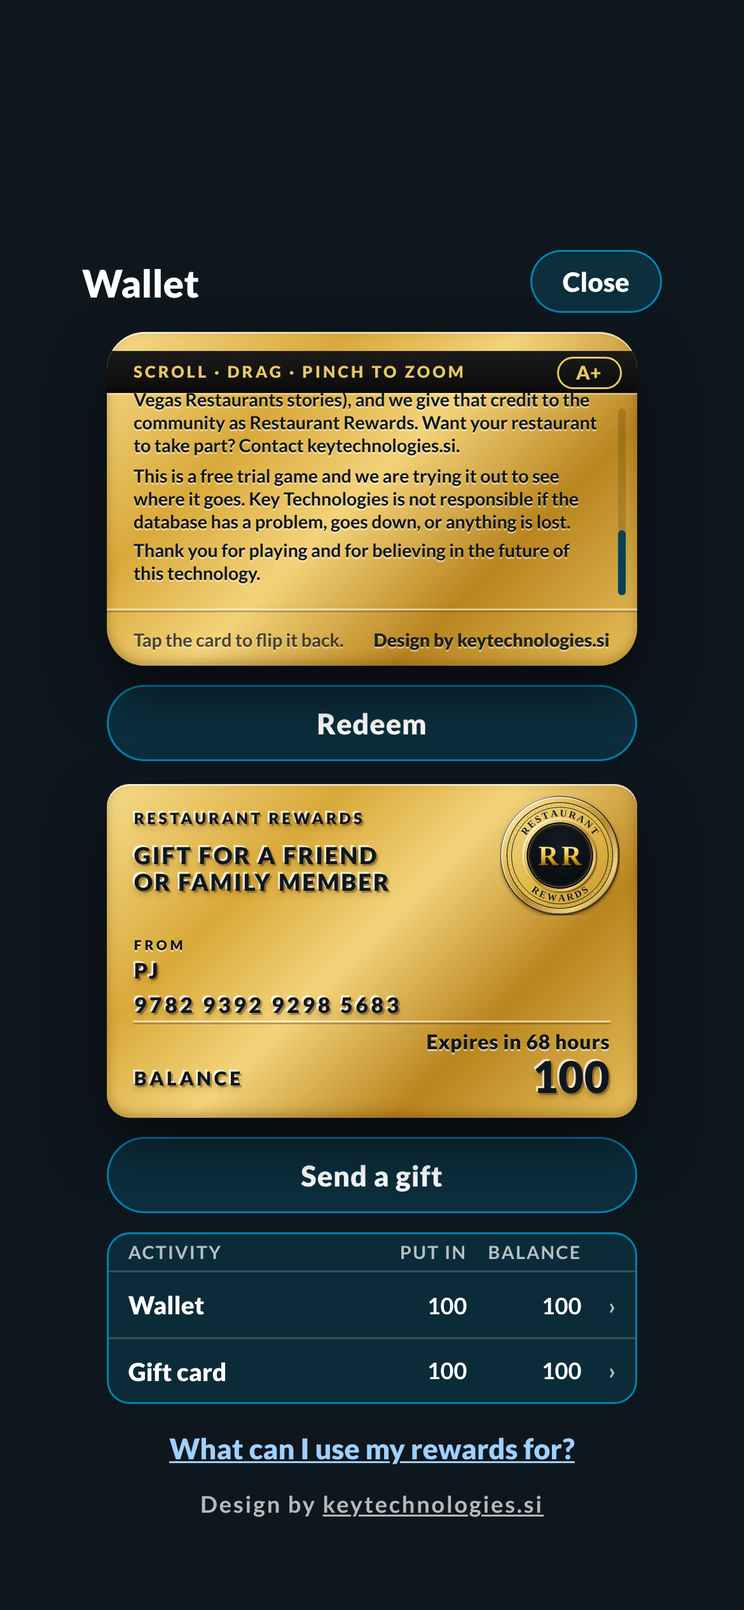
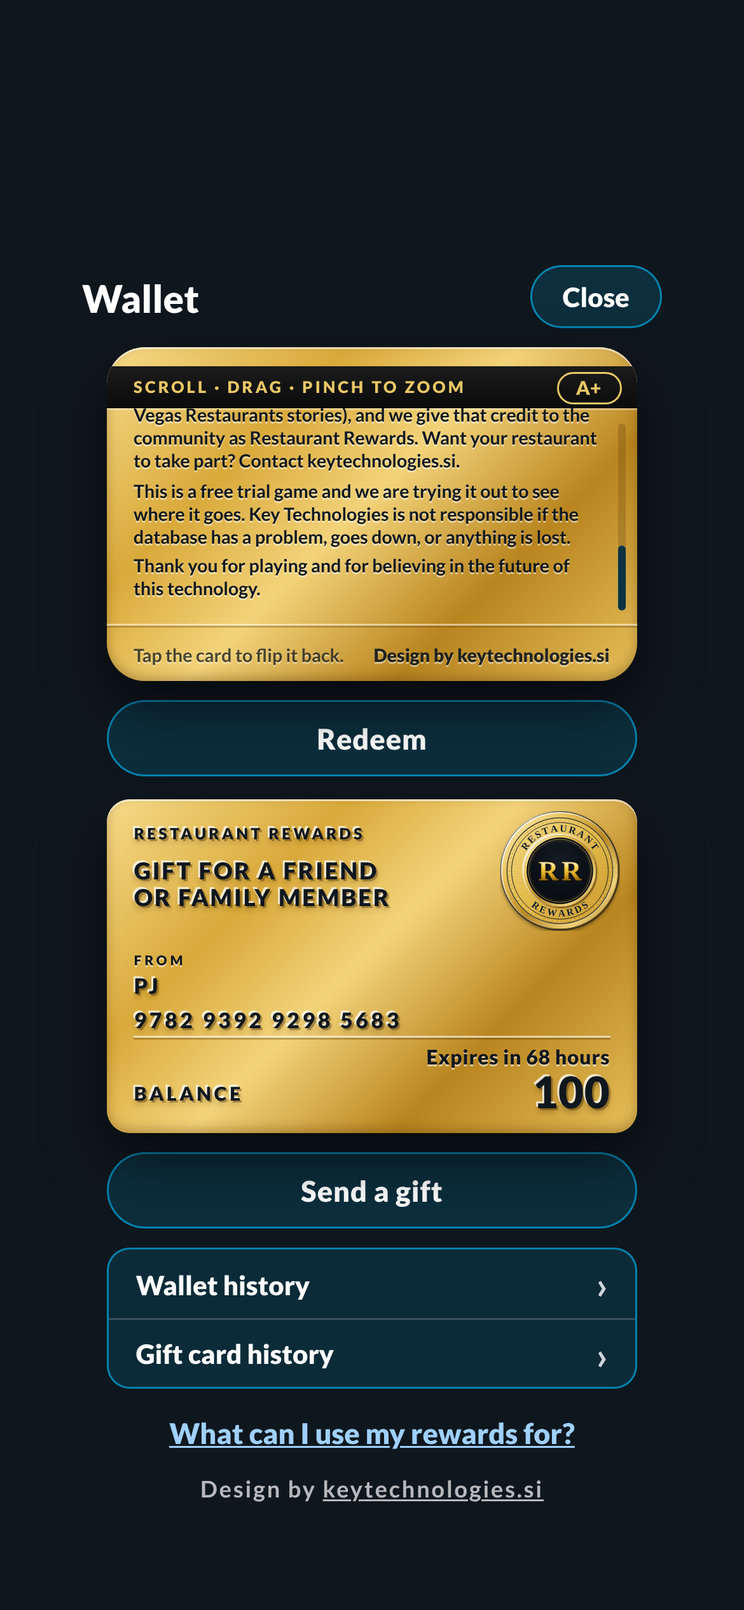
Cash App style history: big balance, wallet/gift card switch, plain-sentence feed with times to the second
Claude-Session: https://claude.ai/code/session_01C24s48QBeAMLS2iDpVHsTf

Changed region(s): [[0.0923, 0.156, 0.8923, 0.9672], [0.8308, 0.312, 0.8615, 0.3432]]

diff --git a/sites/key-technologies/restaurant-rewards-treasury.html b/sites/key-technologies/restaurant-rewards-treasury.html
@@ -49,7 +49,28 @@ table.who .hist{margin-top:5px;background:none;color:var(--key);border:1px solid
 .gc .brand{font-weight:900;font-size:12px;letter-spacing:.2em;text-transform:uppercase;color:#0f171e;text-shadow:-1px -1px 0 rgba(255,255,255,.75),1px 1px 0 rgba(60,35,0,.35),0 2px 3px rgba(60,35,0,.25)}
 .gc .nm.long{white-space:nowrap;overflow:hidden;text-overflow:ellipsis;font-size:min(17px,4.6vw);padding-right:0}
 .gc .nm{margin-top:6px;font-weight:900;font-size:21px;line-height:1.15;color:#0f171e;text-shadow:-1px -1px 0 rgba(255,255,255,.75),1px 1px 0 rgba(60,35,0,.35),0 2px 3px rgba(60,35,0,.25);padding-right:70px}
-.gc .exp{flex:1 1 auto;min-width:0;margin:0 90px 0 10px;font-size:10px;font-weight:900;line-height:1.2;letter-spacing:.02em;color:#0f171e;text-shadow:0 1px 0 rgba(255,255,255,.55)}.gc .exp.soon{color:#7a1d10}.gc .exp.cd{font-size:10.5px;font-weight:900;letter-spacing:.08em;text-transform:uppercase;font-variant-numeric:tabular-nums}.gc .numrow{margin-top:auto;display:flex;align-items:flex-end;justify-content:space-between;gap:8px}.gc .numrow .num{margin-top:0}.gc .vt{display:flex;align-items:center;gap:4px;flex:none;color:#0f171e;text-shadow:-1px -1px 0 rgba(255,255,255,.75),1px 1px 0 rgba(60,35,0,.35),0 2px 3px rgba(60,35,0,.2)}.gc .vt .vl{font-size:5.5px;line-height:1.15;font-weight:900;letter-spacing:.08em;text-align:left}.gc .vt .vd{font-size:14px;font-weight:700;letter-spacing:.1em;font-variant-numeric:tabular-nums}.gc .vt.soon .vd{color:#7a1d10}.gc .chipx{display:flex;align-items:center;gap:7px}.gc .chipx .c{width:40px;height:29px;display:block;filter:drop-shadow(0 1px 1.2px rgba(60,35,0,.5))}.gc .chipx .w{width:15px;height:20px;display:block}.gc .chip.gchip{display:flex;align-items:center;justify-content:center;font-size:8px;font-weight:900;letter-spacing:.14em;color:#0f171e;text-shadow:0 1px 0 rgba(255,255,255,.55);padding-left:1px}.gc .chip.gchip::before,.gc .chip.gchip::after{display:none}.gc .glab{margin-top:auto;font-size:7px;font-weight:900;letter-spacing:.24em;text-transform:uppercase;color:#0f171e;text-shadow:0 1px 0 rgba(255,255,255,.55)}#pres .gc.gift .glab+.nm{margin-top:1px}#pres .gc.sm .nm+.num{margin-top:3px}#pres .gc.sm .nm,#pres .gc.sm .num{font-size:4.5cqw;font-weight:800;letter-spacing:.14em;line-height:1.25;padding-top:0}.gc .gtitle{margin-top:6px;font-weight:900;font-size:4.9cqw;line-height:1.15;letter-spacing:.08em;white-space:nowrap;color:#0f171e;text-shadow:-1px -1px 0 rgba(255,255,255,.75),1px 1px 0 rgba(60,35,0,.35),0 2px 3px rgba(60,35,0,.25)}#rdm ul.alist{list-style:none;margin:10px 0 0;padding:0;background:#16222f;border:1px solid rgba(255,255,255,.22);border-radius:14px}#rdm ul.alist li{display:flex;justify-content:space-between;gap:12px;padding:11px 14px;border-bottom:1px solid rgba(255,255,255,.14)}#rdm ul.alist li:last-child{border-bottom:0}#rdm ul.alist li span{display:flex;flex-direction:column}#rdm ul.alist li b{font-size:15px}#rdm ul.alist li small{font-size:11.5px;color:rgba(255,255,255,.72);line-height:1.35}#rdm ul.alist li span.a{text-align:right;font-weight:900;font-size:16px;white-space:nowrap}#rdm ul.alist li span.a.in{color:#00a8e1}#pres .acts{margin:10px auto 0;width:min(100%,var(--cw));border:1.5px solid rgba(0,168,225,.7);border-radius:12px;background:rgba(0,168,225,.14);overflow:hidden}#pres .ahd,#pres .actb{display:grid;grid-template-columns:minmax(0,1fr) 46px 56px 14px;align-items:center;gap:4px;padding:0 10px}#pres .ahd{min-height:20px;font:700 9.5px Lato,system-ui,sans-serif;letter-spacing:.08em;text-transform:uppercase;color:rgba(255,255,255,.7);border-bottom:1px solid rgba(255,255,255,.18)}#pres .n{text-align:right;font-variant-numeric:tabular-nums}#pres .actb+.actb{border-top:1px solid rgba(255,255,255,.18)}#pres .actb{width:100%;min-height:34px;border:0;background:none;color:#fff;font:700 12px Lato,system-ui,sans-serif;cursor:pointer;text-align:left}#pres .actb:active{background:rgba(0,168,225,.25)}#pres .actb b{font-weight:900;font-size:13px;white-space:nowrap}#pres .actb span{color:#fff;font-weight:700;white-space:nowrap}#pres .actb .ch{color:rgba(255,255,255,.7);text-align:right}#rdm .asec{margin:16px 0 0}#rdm .asec h3{margin:0 0 6px;font-size:17px}#rdm .ltab{border:1px solid rgba(255,255,255,.22);border-radius:12px;background:#16222f;overflow:hidden;font-variant-numeric:tabular-nums}#rdm .lrow{display:grid;grid-template-columns:88px 1fr 54px 58px;gap:6px;padding:9px 10px;border-top:1px solid rgba(255,255,255,.14);align-items:start;font-size:12px}#rdm .lrow:first-child{border-top:0}#rdm .lhd{background:rgba(255,255,255,.07);font-size:9.5px;font-weight:900;letter-spacing:.07em;text-transform:uppercase;color:rgba(255,255,255,.75);padding:7px 10px;align-items:center}#rdm .lrow b{display:block;font-weight:800;font-size:12px}#rdm .lrow small{display:block;font-size:10.5px;color:rgba(255,255,255,.72);line-height:1.3;margin-top:1px;word-break:break-word}#rdm .lrow .n{text-align:right;font-weight:800}#rdm .lrow .amt.in{color:#00a8e1}#rdm .lrow .bal{color:rgba(255,255,255,.9)}#rdm .lrow.tap{cursor:pointer}#rdm .lrow.tap:active{background:rgba(0,168,225,.15)}#rdm .sumbox{display:grid;grid-template-columns:repeat(auto-fit,minmax(88px,1fr));gap:8px;margin:0 0 8px}#rdm .sumbox .sc{background:#16222f;border:1px solid rgba(255,255,255,.22);border-radius:12px;padding:8px 10px}#rdm .sumbox small{display:block;font-size:11px;color:rgba(255,255,255,.75);line-height:1.2}#rdm .sumbox b{font-size:19px;color:#f3d884}.gc .tabsl{white-space:nowrap;text-decoration:underline;text-underline-offset:2px;cursor:pointer}#rdm .tabrow{display:flex;justify-content:space-between;align-items:center;gap:10px;margin:8px 0 0;padding:12px 14px;background:#16222f;border:1px solid rgba(255,255,255,.22);border-radius:14px}#rdm .tabrow.first{border-color:rgba(0,168,225,.7)}#rdm .tabrow b{font-size:22px;color:#f3d884;white-space:nowrap;flex:none}#rdm .tabrow span{font-size:13px;line-height:1.35;color:rgba(255,255,255,.85);text-align:right;min-width:0}.gc .rt{display:flex;flex-direction:column;align-items:flex-end}.gc .rt .cdr{font-size:10.5px;font-weight:900;letter-spacing:.03em;text-transform:none;text-align:right;line-height:1.2;margin:0 0 1px;color:#0f171e;text-shadow:0 1px 0 rgba(255,255,255,.55)}.gc .rt .cdr.soon{color:#7a1d10}.xline{margin:6px 0 10px;font-weight:800;font-size:14px;color:#f3d884}.xline.soon{color:#ff9d8a}.gsum .xline{display:block;margin:6px 0 0;font-size:13px}.gc .crow{display:flex;align-items:center;justify-content:space-between;margin-top:6px;margin-bottom:8px}.gc .crow .chip{margin:0}
+.gc .exp{flex:1 1 auto;min-width:0;margin:0 90px 0 10px;font-size:10px;font-weight:900;line-height:1.2;letter-spacing:.02em;color:#0f171e;text-shadow:0 1px 0 rgba(255,255,255,.55)}.gc .exp.soon{color:#7a1d10}.gc .exp.cd{font-size:10.5px;font-weight:900;letter-spacing:.08em;text-transform:uppercase;font-variant-numeric:tabular-nums}.gc .numrow{margin-top:auto;display:flex;align-items:flex-end;justify-content:space-between;gap:8px}.gc .numrow .num{margin-top:0}.gc .vt{display:flex;align-items:center;gap:4px;flex:none;color:#0f171e;text-shadow:-1px -1px 0 rgba(255,255,255,.75),1px 1px 0 rgba(60,35,0,.35),0 2px 3px rgba(60,35,0,.2)}.gc .vt .vl{font-size:5.5px;line-height:1.15;font-weight:900;letter-spacing:.08em;text-align:left}.gc .vt .vd{font-size:14px;font-weight:700;letter-spacing:.1em;font-variant-numeric:tabular-nums}.gc .vt.soon .vd{color:#7a1d10}.gc .chipx{display:flex;align-items:center;gap:7px}.gc .chipx .c{width:40px;height:29px;display:block;filter:drop-shadow(0 1px 1.2px rgba(60,35,0,.5))}.gc .chipx .w{width:15px;height:20px;display:block}.gc .chip.gchip{display:flex;align-items:center;justify-content:center;font-size:8px;font-weight:900;letter-spacing:.14em;color:#0f171e;text-shadow:0 1px 0 rgba(255,255,255,.55);padding-left:1px}.gc .chip.gchip::before,.gc .chip.gchip::after{display:none}.gc .glab{margin-top:auto;font-size:7px;font-weight:900;letter-spacing:.24em;text-transform:uppercase;color:#0f171e;text-shadow:0 1px 0 rgba(255,255,255,.55)}#pres .gc.gift .glab+.nm{margin-top:1px}#pres .gc.sm .nm+.num{margin-top:3px}#pres .gc.sm .nm,#pres .gc.sm .num{font-size:4.5cqw;font-weight:800;letter-spacing:.14em;line-height:1.25;padding-top:0}.gc .gtitle{margin-top:6px;font-weight:900;font-size:4.9cqw;line-height:1.15;letter-spacing:.08em;white-space:nowrap;color:#0f171e;text-shadow:-1px -1px 0 rgba(255,255,255,.75),1px 1px 0 rgba(60,35,0,.35),0 2px 3px rgba(60,35,0,.25)}#rdm ul.alist{list-style:none;margin:10px 0 0;padding:0;background:#16222f;border:1px solid rgba(255,255,255,.22);border-radius:14px}#rdm ul.alist li{display:flex;justify-content:space-between;gap:12px;padding:11px 14px;border-bottom:1px solid rgba(255,255,255,.14)}#rdm ul.alist li:last-child{border-bottom:0}#rdm ul.alist li span{display:flex;flex-direction:column}#rdm ul.alist li b{font-size:15px}#rdm ul.alist li small{font-size:11.5px;color:rgba(255,255,255,.72);line-height:1.35}#rdm ul.alist li span.a{text-align:right;font-weight:900;font-size:16px;white-space:nowrap}#rdm ul.alist li span.a.in{color:#00a8e1}#pres .acts{margin:10px auto 0;width:min(100%,var(--cw));border:1.5px solid rgba(0,168,225,.7);border-radius:12px;background:rgba(0,168,225,.14);overflow:hidden}#pres .actb+.actb{border-top:1px solid rgba(255,255,255,.18)}#pres .actb{display:flex;justify-content:space-between;align-items:center;padding:0 14px;width:100%;min-height:36px;border:0;background:none;color:#fff;font:700 12px Lato,system-ui,sans-serif;cursor:pointer;text-align:left}#pres .actb:active{background:rgba(0,168,225,.25)}#pres .actb b{font-weight:900;font-size:14px;white-space:nowrap}#pres .actb .ch{color:rgba(255,255,255,.8);font-size:20px;line-height:1}#rdm .seg{display:grid;grid-template-columns:1fr 1fr;gap:4px;padding:4px;margin:6px 0 4px;background:#16222f;border:1px solid rgba(255,255,255,.22);border-radius:16px}
+#rdm .seg button{min-height:48px;border:0;border-radius:12px;background:none;color:rgba(255,255,255,.8);font:800 18px Lato,system-ui,sans-serif;cursor:pointer}
+#rdm .seg button.on{background:#00a8e1;color:#fff}
+#rdm .abig{text-align:center;padding:18px 0 8px}
+#rdm .abig small{display:block;font-size:16px;color:rgba(255,255,255,.8);font-weight:700}
+#rdm .abig b{display:block;font-size:56px;line-height:1.1;color:#f3d884;font-weight:900}
+#rdm .abig span{display:block;font-size:16px;color:rgba(255,255,255,.8);margin-top:2px}
+#rdm .fh{margin:14px 0 4px;font-size:20px}
+#rdm .feed{display:block}
+#rdm .frow{display:flex;align-items:center;gap:14px;padding:14px 2px;border-top:1px solid rgba(255,255,255,.14)}
+#rdm .frow:first-child{border-top:0}
+#rdm .ic{flex:none;width:46px;height:46px;border-radius:50%;display:flex;align-items:center;justify-content:center;background:rgba(255,255,255,.12);color:#fff}
+#rdm .ic svg{width:24px;height:24px}
+#rdm .ic-in{background:rgba(0,168,225,.25);color:#00a8e1}
+#rdm .ic-gift{background:rgba(243,216,132,.2);color:#f3d884}
+#rdm .fm{flex:1;min-width:0}
+#rdm .fm b{display:block;font-size:18px;font-weight:800;line-height:1.2}
+#rdm .fm small{display:block;font-size:14px;color:rgba(255,255,255,.78);line-height:1.35;margin-top:2px}
+#rdm .fm .fno{font-size:12.5px;color:rgba(255,255,255,.6)}
+#rdm .fa{flex:none;font-size:20px;font-weight:900;font-variant-numeric:tabular-nums}
+#rdm .fa.in{color:#00a8e1}
+#rdm .frow.tap{cursor:pointer}#rdm .frow.tap:active{background:rgba(0,168,225,.15)}.gc .tabsl{white-space:nowrap;text-decoration:underline;text-underline-offset:2px;cursor:pointer}#rdm .tabrow{display:flex;justify-content:space-between;align-items:center;gap:10px;margin:8px 0 0;padding:12px 14px;background:#16222f;border:1px solid rgba(255,255,255,.22);border-radius:14px}#rdm .tabrow.first{border-color:rgba(0,168,225,.7)}#rdm .tabrow b{font-size:22px;color:#f3d884;white-space:nowrap;flex:none}#rdm .tabrow span{font-size:13px;line-height:1.35;color:rgba(255,255,255,.85);text-align:right;min-width:0}.gc .rt{display:flex;flex-direction:column;align-items:flex-end}.gc .rt .cdr{font-size:10.5px;font-weight:900;letter-spacing:.03em;text-transform:none;text-align:right;line-height:1.2;margin:0 0 1px;color:#0f171e;text-shadow:0 1px 0 rgba(255,255,255,.55)}.gc .rt .cdr.soon{color:#7a1d10}.xline{margin:6px 0 10px;font-weight:800;font-size:14px;color:#f3d884}.xline.soon{color:#ff9d8a}.gsum .xline{display:block;margin:6px 0 0;font-size:13px}.gc .crow{display:flex;align-items:center;justify-content:space-between;margin-top:6px;margin-bottom:8px}.gc .crow .chip{margin:0}
 .gc .rrlock{display:flex;align-items:center}.gc .rrlock img{display:block;height:72px;width:auto}.gc.sm .rrlock img{height:46px}
 .gc .rrlock{display:flex;align-items:center;gap:8px}.gc .rrt{font-weight:900;font-size:9.5px;letter-spacing:.14em;line-height:1.25;text-transform:uppercase;text-align:right;color:#0f171e;text-shadow:0 1px 0 rgba(255,255,255,.6)}.gc .rrbadge{position:relative;width:46px;height:46px;border-radius:50%;overflow:hidden;flex:none;box-shadow:0 2px 5px rgba(60,35,0,.35)}.gc .rrbadge img{display:block;width:100%;height:100%}.gc.sm .rrbadge{width:32px;height:32px}.gc.sm .rrt{font-size:7.5px}
 .gc .rrmark{width:40px;height:40px;border-radius:50%;display:flex;align-items:center;justify-content:center;font-weight:900;font-size:15px;letter-spacing:-.04em;color:#0f171e;border:2px solid #0f171e;box-shadow:inset 0 0 0 3px rgba(255,255,255,.28),inset 0 0 0 4px rgba(15,23,30,.55),0 1px 0 rgba(255,255,255,.7);background:radial-gradient(circle at 35% 30%,rgba(255,255,255,.55),rgba(255,255,255,0) 60%);text-shadow:0 1px 0 rgba(255,255,255,.6);padding-right:1px}.gc.sm .rrmark{width:28px;height:28px;font-size:11px;border-width:1.5px;box-shadow:inset 0 0 0 2px rgba(255,255,255,.28),inset 0 0 0 3px rgba(15,23,30,.5)}
@@ -105,7 +126,7 @@ table.who .hist{margin-top:5px;background:none;color:var(--key);border:1px solid
 #pres .plogos{display:flex;gap:12px;align-items:center;justify-content:center;flex-wrap:wrap;margin:18px 0 6px}#pres .plogos img{height:64px;width:auto;max-width:150px;object-fit:contain}
 #pres h2{text-align:center;font-size:22px;margin:6px 0 2px}
 #pres .gc{max-width:none;width:100%;margin:10px 0 4px;aspect-ratio:1.58/1}
-#pres{--cw:clamp(244px,calc((100vh - 494px)/2*1.586),304px);--cw:clamp(244px,calc((100dvh - 494px)/2*1.586),304px)}@media(max-height:700px){#pres .pc>.rbtn,#pres .pc>.giftpill,#pres .btnrow .rbtn{min-height:34px;font-size:14px;margin-top:6px}#pres .btnrow{margin-top:6px}#pres .flip{margin:6px 0 2px}#pres .gblock .gc{margin:0}#pres .kt{margin:6px 0 2px}#pres .uses{margin-top:6px}#pres .pc>h3,#pres .pc>ul{display:none}}@media(max-height:780px){#pres .pc>ul,#pres .pc>h3{display:none}}@media(max-height:700px){#pres .pc>a.uses{display:none!important}#pres .acts{margin-top:6px}#pres .actb{min-height:26px;font-size:11px}#pres .ahd{min-height:15px;font-size:9px}#pres .actb b{font-size:12px}}@media(max-height:600px){#pres .ahd,#pres .actb{grid-template-columns:minmax(0,1fr) 40px 46px 10px;padding:0 8px;gap:3px}#pres .actb{min-height:24px}#pres .ahd{min-height:14px}#pres{--cw:196px}#pres .phead{margin:0}#pres .pc{padding-top:2px}#pres .flip{margin:2px 0 0}#pres .kt{margin:0;font-size:10px;line-height:1.1}#pres .gblock .gc{margin:0}#pres .acts{margin-top:3px}#pres .pc>a.uses{display:none!important}#pres button.more{margin-top:6px;min-height:0;padding:4px}#pres{--cw:196px}#pres .pc>.rbtn,#pres .pc>.giftpill,#pres .btnrow .rbtn{min-height:28px;font-size:13px}}@media(max-height:620px){#pres .uses{display:none}#pres .phead{margin-bottom:2px}#pres .pc{padding-top:8px}#pres .kt{margin:4px 0 0}}
+#pres{--cw:clamp(244px,calc((100vh - 494px)/2*1.586),304px);--cw:clamp(244px,calc((100dvh - 494px)/2*1.586),304px)}@media(max-height:700px){#pres .pc>.rbtn,#pres .pc>.giftpill,#pres .btnrow .rbtn{min-height:34px;font-size:14px;margin-top:6px}#pres .btnrow{margin-top:6px}#pres .flip{margin:6px 0 2px}#pres .gblock .gc{margin:0}#pres .kt{margin:6px 0 2px}#pres .uses{margin-top:6px}#pres .pc>h3,#pres .pc>ul{display:none}}@media(max-height:780px){#pres .pc>ul,#pres .pc>h3{display:none}}@media(max-height:700px){#pres .pc>a.uses{display:none!important}#pres .acts{margin-top:6px}#pres .actb{min-height:32px}#pres .actb b{font-size:13px}#pres .actb b{font-size:12px}}@media(max-height:600px){#pres .actb{min-height:28px;padding:0 10px}#pres .ahd{min-height:14px}#pres{--cw:196px}#pres .phead{margin:0}#pres .pc{padding-top:2px}#pres .flip{margin:2px 0 0}#pres .kt{margin:0;font-size:10px;line-height:1.1}#pres .gblock .gc{margin:0}#pres .acts{margin-top:3px}#pres .pc>a.uses{display:none!important}#pres button.more{margin-top:6px;min-height:0;padding:4px}#pres{--cw:196px}#pres .pc>.rbtn,#pres .pc>.giftpill,#pres .btnrow .rbtn{min-height:28px;font-size:13px}}@media(max-height:620px){#pres .uses{display:none}#pres .phead{margin-bottom:2px}#pres .pc{padding-top:8px}#pres .kt{margin:4px 0 0}}
 #pres .pc>.gc,#pres .flip,#pres .gblock{width:min(100%,var(--cw));margin-left:auto!important;margin-right:auto!important}#pres .pc>.rbtn,#pres .pc>.giftpill,#pres .pc>.btnrow{width:min(100%,var(--cw));margin-left:auto;margin-right:auto}#pres .gc.sm{border-radius:12px;container-type:inline-size}#pres .flip{border-radius:12px}
 #pres .gc::after{display:none}
 #pres .gc:not(.back){aspect-ratio:1.586/1}#pres .gc.sm .bal{margin-top:2px;padding-top:3px}#pres .gc.sm .bal b{font-size:min(25px,9.2cqw)}#pres .gc.sm .bal small{font-size:10px}#pres .gc.sm .brand{font-size:min(10.5px,calc((58cqw - 14px)/16));letter-spacing:.18em;white-space:nowrap}
@@ -514,21 +535,23 @@ table.who .hist{margin-top:5px;background:none;color:var(--key);border:1px solid
   actRows(w).forEach(function(r){if(r.gift)A.nG++;else A.nW++});return A}
  function dOf(t){return new Date(t).toLocaleDateString('en-US',{month:'short',day:'numeric',year:'numeric'})}
  function tOf(t){return new Date(t).toLocaleTimeString('en-US',{hour:'numeric',minute:'2-digit',second:'2-digit',timeZoneName:'short'})}
- function ledgerTable(rows,id){var T=el('div','ltab');T.setAttribute('role','table');var h=el('div','lrow lhd');['Date and time','Record','Amount','Balance'].forEach(function(x,i){h.appendChild(el('span',i>1?'n':null,x))});T.appendChild(h);
-  rows.forEach(function(r){var e=r.e,li=el('div','lrow'),a=el('span','dt'),b=el('span','rec');a.appendChild(el('b',null,dOf(e.t)));a.appendChild(el('small',null,tOf(e.t)));li.appendChild(a);b.appendChild(el('b',null,r.t));var x=r.s2.join(' \u00b7 ').replace(/No\. /g,'No.\u00a0');if(x)b.appendChild(el('small',null,x));li.appendChild(b);var dc=e.status==='declined';li.appendChild(el('span','n amt'+(r.inn&&!dc&&!r.tag?' in':''),r.amt===null?'':r.sign+fmt(r.amt)));li.appendChild(el('span','n bal',r.run===null?'':fmt(r.run)));li.title='Recorded '+iso(e.t)+' (UTC)';
-   if(isPay(e)){li.className+=' tap';li.setAttribute('role','button');li.setAttribute('tabindex','0');var open=function(){receipt(e,id)};li.addEventListener('click',open);li.addEventListener('keydown',function(ev){if(ev.key==='Enter')open()})}T.appendChild(li)});return T}
- function sumBox(items){var b=el('div','sumbox');items.forEach(function(it){var c=el('div','sc');c.appendChild(el('small',null,it[0]));c.appendChild(el('b',null,fmt(it[1])));b.appendChild(c)});return b}
+ var ICO={in:'<path d="M12 4v13M6 12l6 6 6-6"/>',out:'<path d="M12 20V7M6 12l6-6 6 6"/>',gift:'<path d="M4 9h16v4H4zM6 13h12v7H6zM12 9v11M12 9c-3 0-4-4-1.5-4C12 5 12 9 12 9zM12 9c3 0 4-4 1.5-4C12 5 12 9 12 9z"/>',time:'<circle cx="12" cy="12" r="8"/><path d="M12 7v5l3 2"/>',open:'<circle cx="12" cy="12" r="8"/><path d="M8.5 12.5l2.5 2.5 4.5-5"/>'};
+ function icon(k){var d=el('span','ic ic-'+k);d.innerHTML='<svg viewBox="0 0 24 24" aria-hidden="true" fill="none" stroke="currentColor" stroke-width="2.4" stroke-linecap="round" stroke-linejoin="round">'+ICO[k]+'</svg>';return d}
+ function plainT(t){var m=[[/^Account opened$/,'Wallet opened'],[/^Gift card created$/,'Gift card opened'],[/^Gift card opened$/,'Gift card opened'],[/^Opening balance$/,'Starting balance'],[/^Credit from the Treasury$/,'Added to your wallet'],[/^Gift card issued$/,'Added to your gift card'],[/^Gift given to (.+)$/,'You gave $1 a gift'],[/^Gift of (.+) for (.+)$/,'Gift of $1 for $2'],[/^Expired gift card, back to the Treasury$/,'Gift card time ran out'],[/^Gift card expired$/,'Gift card time ran out'],[/^Expired credit from .*$/,'Time ran out'],[/^Expired$/,'Time ran out'],[/^Gift card move$/,'Gift card moved']];for(var i=0;i<m.length;i++)if(m[i][0].test(t))return t.replace(m[i][0],m[i][1]);return t}
+ function feed(rows,id,isT){var F=el('div','feed');rows.forEach(function(r){var e=r.e,li=el('div','frow'),k=r.amt===null?'open':isExp(e)?'time':(r.gift||isGiftE(e)||/^Gift /.test(r.t))?'gift':(r.sign==='+'||(r.inn&&r.sign!=='−'))?'in':'out';li.appendChild(icon(k));var m=el('span','fm'),t=plainT(isT?r.t:r.t);m.appendChild(el('b',null,t));m.appendChild(el('small','fdt',dOf(e.t)+' · '+tOf(e.t)));var x=r.s2.join(' · ').replace(/No\. /g,'No. ');if(x)m.appendChild(el('small','fno',x));li.appendChild(m);if(r.amt!==null){var dc=e.status==='declined',a=el('span','fa'+(r.sign==='+'&&!dc?' in':''),(dc?'':r.sign)+fmt(r.amt));li.appendChild(a)}
+   li.title='Recorded '+iso(e.t)+' (UTC)';if(isPay(e)){li.className+=' tap';li.setAttribute('role','button');li.setAttribute('tabindex','0');var open=function(){receipt(e,id)};li.addEventListener('click',open);li.addEventListener('keydown',function(ev){if(ev.key==='Enter')open()})}F.appendChild(li)});return F}
  function openActivity(id,focus){var w=wById(id),rc=$('rc'),all=actRows(w).reverse();ac();rc.innerHTML='';
-  var hd=el('div','rhead');hd.appendChild(el('h2',null,'Activity'));var ex=el('button','exit','Back');ex.type='button';ex.addEventListener('click',function(){$('rdm').classList.add('hide')});hd.appendChild(ex);rc.appendChild(hd);
-  var nm=id==='treasury'?'Treasury':w.name;
-  rc.appendChild(el('p','have',nm+': '+all.length+' '+(all.length===1?'record':'records')+', newest first. Each record shows the exact date and time, to the second, in your phone’s time zone.'));
-  var mk=function(title,sums,rows,key){var sec=el('div','asec');sec.id='asec-'+key;sec.appendChild(el('h3',null,title));if(sums)sec.appendChild(sums);if(rows.length)sec.appendChild(ledgerTable(rows,id));else sec.appendChild(el('p','fine','Nothing yet.'));rc.appendChild(sec);return sec};
-  var targets={};
-  if(id==='treasury'){targets.wallet=mk('Treasury',null,all,'wallet')}
-  else{var A=actSums(w),wr=all.filter(function(r){return !r.gift}),gr=all.filter(function(r){return r.gift});
-   targets.wallet=mk('Wallet · '+wr.length+' '+(wr.length===1?'record':'records'),sumBox([['Put in by the Treasury',A.putIn],['Received as gifts',A.gifts],['Spent or paid',A.spent],['Expired',A.expired],['Balance now',A.bal]]),wr,'wallet');
-   if(A.hasGift)targets.gift=mk('Gift card · '+gr.length+' '+(gr.length===1?'record':'records'),sumBox([['Put in by the Treasury',A.gIssued],['Given away',A.gGiven],['Expired',A.gExpired],['Waiting now',A.gWaiting]]),gr,'gift')}
-  rc.appendChild(credit());$('rdm').classList.remove('hide');$('rdm').scrollTop=0;if(focus&&targets[focus]&&focus!=='wallet')setTimeout(function(){try{targets[focus].scrollIntoView({block:'start'})}catch(e){}},30)}
+  var hd=el('div','rhead');hd.appendChild(el('h2',null,id==='treasury'?'Treasury':w.name));var ex=el('button','exit','Close');ex.type='button';ex.addEventListener('click',function(){$('rdm').classList.add('hide')});hd.appendChild(ex);rc.appendChild(hd);
+  var body=el('div','abody'),A=id==='treasury'?null:actSums(w),which=(focus==='gift'&&A&&A.hasGift)?'gift':'wallet';
+  var draw=function(){body.innerHTML='';var rows,label,big,sub;
+   if(!A){rows=all;label='In the Treasury';big=bal('treasury');sub=null}
+   else if(which==='gift'){rows=all.filter(function(r){return r.gift});label='Gift card to give';big=A.gWaiting;sub='Added so far '+fmt(A.gIssued)}
+   else{rows=all.filter(function(r){return !r.gift});label='Wallet';big=A.bal;sub='Added so far '+fmt(A.putIn+A.gifts)}
+   var bx=el('div','abig');bx.appendChild(el('small',null,label));bx.appendChild(el('b',null,fmt(big)));if(sub)bx.appendChild(el('span',null,sub));body.appendChild(bx);
+   body.appendChild(el('h3','fh','History'));
+   if(rows.length)body.appendChild(feed(rows,id,!A));else body.appendChild(el('p','fine','Nothing yet.'))};
+  if(A&&A.hasGift){var seg=el('div','seg');[['wallet','Wallet'],['gift','Gift card']].forEach(function(p){var b=el('button',null,p[1]);b.type='button';b.setAttribute('data-k',p[0]);b.addEventListener('click',function(){which=p[0];[].forEach.call(seg.children,function(c){c.className=c.getAttribute('data-k')===which?'on':''});draw()});b.className=p[0]===which?'on':'';seg.appendChild(b)});rc.appendChild(seg)}
+  rc.appendChild(body);draw();rc.appendChild(credit());$('rdm').classList.remove('hide');$('rdm').scrollTop=0}
  function etype(e){if(e.kind==='open')return 'Wallet opened';if(!e.from)return 'Opening balance';if(isExp(e))return 'Expired';if(isGiftE(e))return 'Gift given';var tw=wById(e.to);if(tw&&isGiftW(tw)&&e.from==='treasury')return 'Gift card issued';if(isPay(e))return 'Payment';if(e.from==='treasury')return 'Credit from the Treasury';return 'Move'}
  /* A fingerprint that chains every record to the one before it (SHA-256). Change, remove or reorder ANY record and every fingerprint after it changes, so a copy of the ledger can be checked against the one on file. */
  function sha256(str){return crypto.subtle.digest('SHA-256',new TextEncoder().encode(str)).then(function(h){return Array.prototype.map.call(new Uint8Array(h),function(x){return ('0'+x.toString(16)).slice(-2)}).join('')})}
@@ -586,8 +609,8 @@ table.who .hist{margin-top:5px;background:none;color:var(--key);border:1px solid
   giftsFor(w).forEach(function(g){var gb=giftBlock(g,id);if(gb)pc.appendChild(gb)});
   if(w.id!=='treasury'){var sg=el('button','giftpill','Send a gift');sg.type='button';sg.addEventListener('click',function(){openSendGift(id)});pc.appendChild(sg)}
   if(id==='treasury'){var rows=actRows(w).reverse(),h3a=el('h3',null,'Activity');pc.appendChild(h3a);var ul=el('ul');rows.slice(0,2).forEach(function(r){ul.appendChild(rowLi(r,id,true))});if(rows.length)pc.appendChild(ul);else h3a.remove();if(rows.length){var mb=el('button','more','All activity ('+rows.length+')');mb.type='button';mb.addEventListener('click',function(){openActivity(id)});pc.appendChild(mb)}}
-  else{var A=actSums(w),box=el('div','acts'),hd=el('div','ahd');hd.appendChild(el('span',null,'Activity'));hd.appendChild(el('span','n','Put in'));hd.appendChild(el('span','n','Balance'));hd.appendChild(el('span','ch',''));box.appendChild(hd);var ab=function(label,put,bal,key){var b=el('button','actb');b.type='button';b.setAttribute('aria-label',label+' activity: put in '+fmt(put)+', balance '+fmt(bal));b.appendChild(el('b',null,label));b.appendChild(el('span','n',fmt(put)));b.appendChild(el('span','n',fmt(bal)));b.appendChild(el('span','ch','\u203a'));b.addEventListener('click',function(){openActivity(id,key)});box.appendChild(b)};
-   ab('Wallet',A.putIn+A.gifts,A.bal,'wallet');if(A.hasGift)ab('Gift card',A.gIssued,A.gWaiting,'gift');pc.appendChild(box)}
+  else{var A=actSums(w),box=el('div','acts');var ab=function(label,key){var b=el('button','actb');b.type='button';b.appendChild(el('b',null,label));b.appendChild(el('span','ch','\u203a'));b.addEventListener('click',function(){openActivity(id,key)});box.appendChild(b)};
+   ab('Wallet history','wallet');if(A.hasGift)ab('Gift card history','gift');pc.appendChild(box)}
   var ul2=el('a','uses','What can I use my rewards for?');ul2.href='restaurant-rewards-uses.html';pc.appendChild(ul2);
   pc.appendChild(credit());$('pres').classList.remove('hide');if(!quiet)rollAll();document.body.style.overflow='hidden';$('pres').scrollTop=0}
  $('lock').addEventListener('click',function(){RR.signOut();location.reload()});

diff --git a/docs/key-integration/NEXT_STEPS.md b/docs/key-integration/NEXT_STEPS.md
@@ -397,3 +397,5 @@ KNOWN GAPS (told to Shane): (a) the time a restaurant CONFIRMS or declines a pay
 217. FULL HISTORY FOR EVERY WALLET + "RR" CLEANUP + JOHNNY MAC'S PROPOSAL (2026-11-19, Shane). (A) Owner "Who got what" list: every wallet row has a "History ›" button that opens that wallet's two reports (wallet and gift card, with totals), and a new "Download every wallet's full history (CSV)" (holder, wallet or gift card, local and UTC time, record, amount, balance after, confirmation, details). (B) "RR" removed from visible text on the Johnny Mac's and Thin Blue 702 demo pages (card numbers, balance suffix, step title), the "What can you do" page and the four share screens (headline now "Restaurant Rewards"); the four share pictures in brand/ were re-rendered. The card seal still says RR (the only place). (C) Proposal for the Johnny Mac's owner as a Claude Doc (4 levels: $200,000 a year plus 3% of sales, $100,000, $50,000, $25,000; special quote below that). OPEN: define "sales" (gross or net of tax and tips, all three locations?), whether levels 2-4 have a sales share, and exactly what each level includes, before the meeting.
 
 218. BANK-STYLE LEDGER (2026-11-19, Shane: "make it look like a real banking ledger, I don't like them two spread apart, and put the dates and times in seconds"). (A) Wallet screen: the two activity buttons are now ONE joined panel with a header row (Activity, Put in, Balance) and two rows (Wallet, Gift card), numbers lined up in columns like a bank statement. (B) Activity sheet: each report is a bank-statement table with columns Date and time (date on one line, time to the second plus zone under it), Record (with its No. and notes), Amount, and Balance (running balance after each record; the gift card report now keeps its own running balance too). Payment rows still open the receipt. Fit matrix 15 sizes: 0 problems (320x568 card width 196px, tighter margins on short phones); no visible RR; site-check HARD 0.
+
+219. CASH APP STYLE HISTORY (2026-11-19, Shane: "make it like a Cash App... it has to be really simple, third graders and a 110-year-old should be able to use it"; also: do NOT ask for Lori's last name again, she keeps it private). The tables and totals boxes are gone. Wallet screen: two big plain buttons, "Wallet history" and "Gift card history". History sheet: the holder's name and Close; a big two-button switch (Wallet | Gift card); one big number (balance, or gift card to give) with "Added so far N"; then a simple feed like Cash App: a round icon (arrow in, arrow out, gift, clock, check), a plain sentence ("Added to your wallet", "You gave Zed a gift", "Gift from Zachary Tollen", "Time ran out"), the date and time to the second with zone, the No., and the amount on the right (blue for money in). Big type (18px sentences, 20px amounts). Same records underneath; CSV downloads unchanged. Fit matrix 0 problems; no visible RR; site-check HARD 0.
